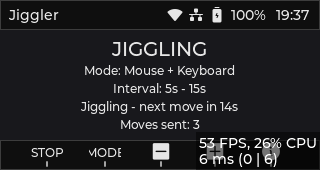
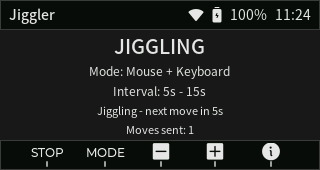
Replace screenshots with captures from a real CardputerZero
Captured from the device framebuffer: full MODE label, no simulator
FPS overlay. Used by the README and the app store listing.

Claude-Session: https://claude.ai/code/session_01BMBKNjw8x9i6hFN3oKEnwb

diff --git a/README.md b/README.md
@@ -10,7 +10,7 @@
     />
   <img
     src="./screenshot/jiggler-light.png"
-    alt="Jiggler running in the desktop simulator"
+    alt="Jiggler running on a CardputerZero"
     width="320"
   />
   </picture>
@@ -127,7 +127,7 @@ Same small MVVM-style structure as the upstream template:
 │   ├── audio/              # Audio resources
 │   ├── fonts/              # TTF fonts loaded through FreeType
 │   └── images/             # Image resources
-├── screenshot/             # Simulator screenshots for supported desktop platforms
+├── screenshot/             # Screenshots captured on a real CardputerZero
 ├── src/
 │   ├── app/                # Application lifecycle, asset loading, screen management
 │   ├── config/             # LVGL config headers for desktop and device builds
